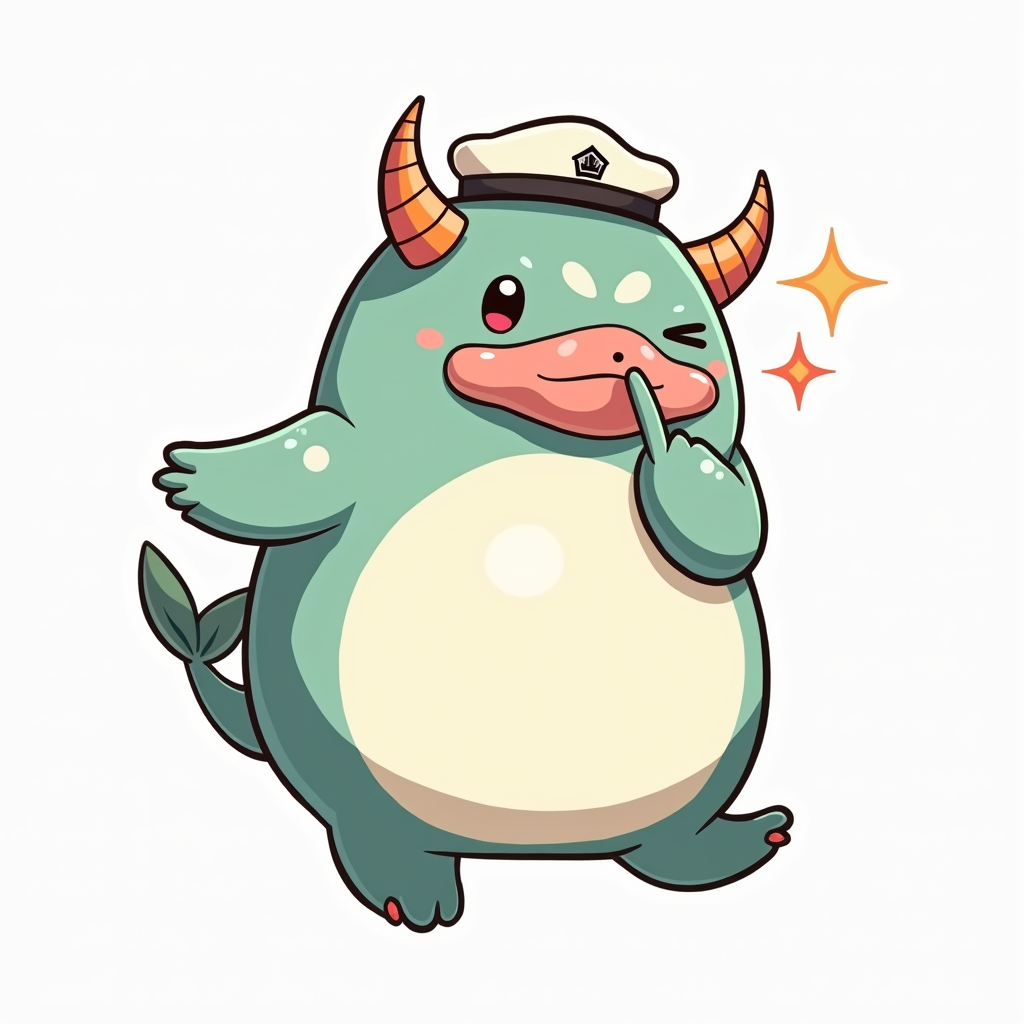
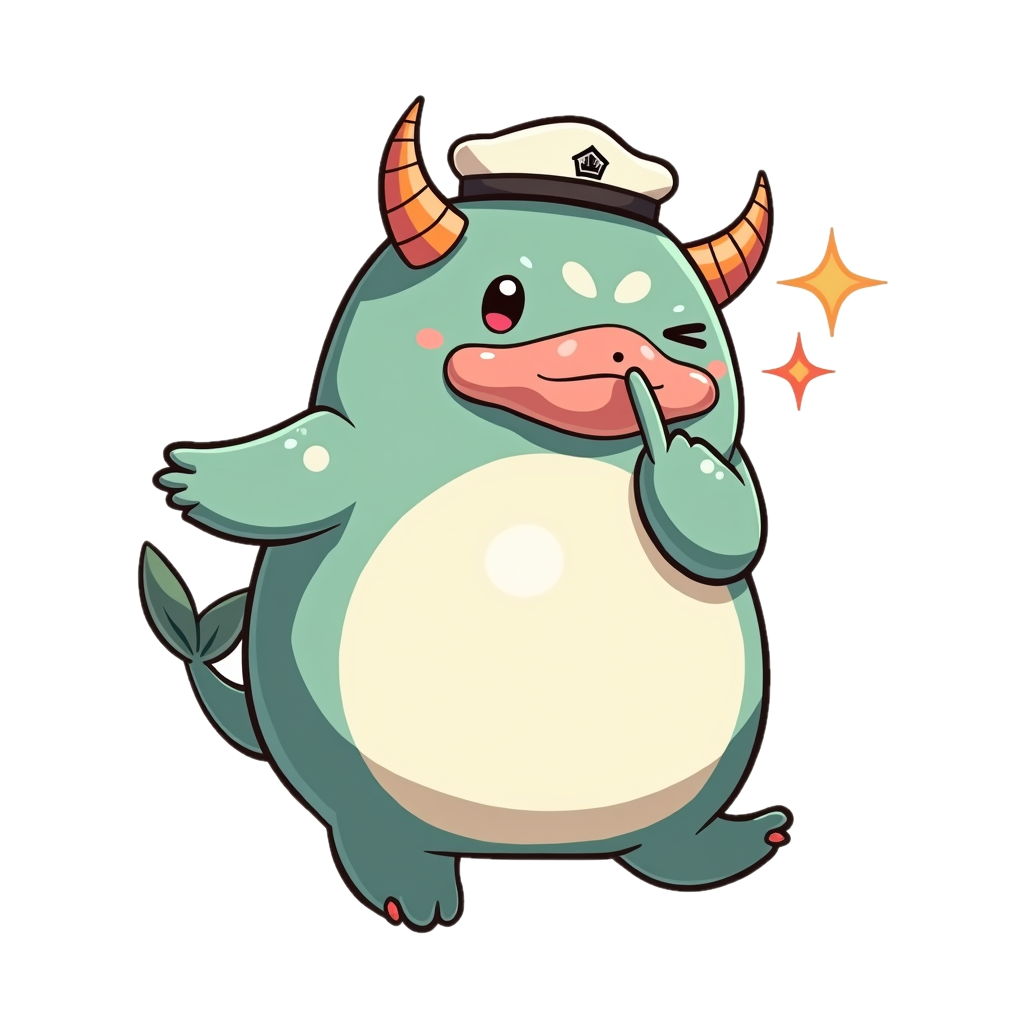
forge: transparent-background yokai portraits (#77)
## Summary

- All five bundled yokai portraits are re-exported as RGBA with the
white canvas **and** the baked-in drop-shadow ellipse removed, so they
composite cleanly onto any UI surface.
- New `tools/yokai-forge/scripts/remove_portrait_background.py` makes
the transform reproducible for future forge runs.

## How it works

Two seeded flood fills over the RGB image:

1. **Canvas pass** — flood fill from the four corners across `min(R,G,B)
>= 240`. Removes the rendered white canvas; interior whites (cream
bellies on `short_a` / `r` / `sh` / `th`, the white cat body on `f`)
stay opaque because they're walled off by line art.
2. **Shadow pass** — expand the background mask through neutral-grey
pixels (`135 <= min(R,G,B) <= 248` and `max − min <= 22`). The upper
bound overlaps the white threshold so the gradient rim where the shadow
fades into the canvas is bridged. The saturation constraint keeps
warm-cream bellies and the character's own shading out of the mask.

A 1px Gaussian feather smooths the final alpha to avoid aliased halos.

## Before / after

Preview composited onto solid blue so transparency is visible:

| slug | before (opaque white + shadow) | after (RGBA) |
|---|---|---|
| `f` | white box + grey halo under cat | clean cat silhouette |
| `r` | grey ellipse under feet | clean silhouette |
| `th` | grey ellipse under feet | clean silhouette |
| `sh` | faint ellipse under feet | clean silhouette |
| `short_a` | white box (no shadow) | clean silhouette |
[…]

diff --git a/tools/yokai-forge/scripts/remove_portrait_background.py b/tools/yokai-forge/scripts/remove_portrait_background.py
@@ -1,0 +1,143 @@
+#!/usr/bin/env python3
+"""Convert bundled yokai portrait PNGs from opaque-white backgrounds to transparent.
+
+The rendered portraits ship as 1024x1024 8-bit RGB PNGs with a pure-white
+canvas. A naive "white -> alpha 0" swap would also erase internal white
+regions (bellies, cat faces, highlights), so this script flood-fills from
+the four corners across near-white pixels only, leaving interior whites
+opaque. The alpha edge is feathered by one pixel to avoid aliased halos
+when the portrait is composited onto colored backgrounds in MoraUI.
+
+Usage:
+    python scripts/remove_portrait_background.py \
+        ../../Packages/MoraCore/Sources/MoraCore/Resources/Yokai
+
+By default the script rewrites each `*/portrait.png` in-place as RGBA.
+Pass `--output-root <dir>` to write transparent copies to a mirrored tree
+(useful for eyeballing the alpha mask before committing the overwrite).
+"""
+from __future__ import annotations
+
+import argparse
+import sys
+from collections import deque
+from pathlib import Path
+
+import numpy as np
+from PIL import Image, ImageFilter
+
+WHITE_THRESHOLD = 240  # pixels where min(R,G,B) >= this are treated as background
+SHADOW_MIN = 135  # lower bound of neutral-grey shadow pixels (min RGB channel)
+SHADOW_MAX = 248  # overlaps WHITE_THRESHOLD so the soft gradient rim is bridged
+SHADOW_SAT_SPREAD = 22  # max(R,G,B) - min(R,G,B); small => near-neutral grey
+FEATHER_RADIUS = 1  # pixels; smooth the alpha mask to avoid jaggies
+
+
+def _flood_fill(eligible: np.ndarray, seed_mask: np.ndarray) -> np.ndarray:
+    """4-connected flood fill restricted to `eligible`, seeded from `seed_mask`."""
+    h, w = eligible.shape
+    visited = seed_mask & eligible
+    queue: deque[tuple[int, int]] = deque(
+        (int(y), int(x)) for y, x in zip(*np.where(visited))
+    )
+    while queue:
+        y, x = queue.popleft()
+        for dy, dx in ((-1, 0), (1, 0), (0, -1), (0, 1)):
+            ny, nx = y + dy, x + dx
+            if 0 <= ny < h and 0 <= nx < w and not visited[ny, nx] and eligible[ny, nx]:
+                visited[ny, nx] = True
+                queue.append((ny, nx))
+    return visited
+
+
+def _build_background_mask(rgb: np.ndarray) -> np.ndarray:
+    """Return a boolean mask (H, W) where True = background.
+
+    A single 4-connected flood fill from the four corners across a
+    combined eligibility set:
+
+    - Near-white pixels (`min(R,G,B) >= WHITE_THRESHOLD`): the rendered
+      canvas.
+    - Neutral-grey pixels (`SHADOW_MIN <= min(R,G,B) <= SHADOW_MAX` and
+      `max - min <= SHADOW_SAT_SPREAD`): the soft drop-shadow ellipse
+      baked under some characters. The grey band overlaps the white
+      threshold so the gradient rim where the shadow fades into the
+      canvas is bridged.
+
+    Unioning the two sets into one fill matters: a white pocket walled
+    off by a shadow ring (e.g. between the rabbit's legs) can only be
+    reached by first traversing the shadow and then resuming through
+    white. Running the passes separately would leave such pockets
+    opaque.
+
+    Interior whites on the character (bellies on short_a / r / sh / th,
+    the white cat body on f) stay opaque because they are walled off by
+    saturated line-art that fails both eligibility predicates.
+    """
+    h, w, _ = rgb.shape
+    rgb_min = rgb.min(axis=2)
+    rgb_max = rgb.max(axis=2)
+    spread = rgb_max.astype(np.int16) - rgb_min.astype(np.int16)
+
+    near_white = rgb_min >= WHITE_THRESHOLD
+    shadow_like = (
+        (rgb_min >= SHADOW_MIN) & (rgb_min <= SHADOW_MAX) & (spread <= SHADOW_SAT_SPREAD)
+    )
+    eligible = near_white | shadow_like
+
+    corner_seeds = np.zeros((h, w), dtype=bool)
+    corner_seeds[0, 0] = corner_seeds[0, -1] = True
+    corner_seeds[-1, 0] = corner_seeds[-1, -1] = True
+    return _flood_fill(eligible, corner_seeds)
+
+
+def _process(portrait_path: Path, output_path: Path) -> None:
+    with Image.open(portrait_path) as img:
+        rgb = np.asarray(img.convert("RGB"))
+    background = _build_background_mask(rgb)
+    alpha = np.where(background, 0, 255).astype(np.uint8)
+    alpha_img = Image.fromarray(alpha, mode="L")
+    if FEATHER_RADIUS > 0:
+        alpha_img = alpha_img.filter(ImageFilter.GaussianBlur(radius=FEATHER_RADIUS))
+    rgba = Image.fromarray(rgb, mode="RGB").convert("RGBA")
+    rgba.putalpha(alpha_img)
+    output_path.parent.mkdir(parents=True, exist_ok=True)
+    rgba.save(output_path, format="PNG", optimize=True)
+
+
+def main(argv: list[str]) -> int:
+    parser = argparse.ArgumentParser(description=__doc__)
+    parser.add_argument(
+        "yokai_root",
+        type=Path,
+        help="Directory containing <slug> subdirectories, each with a portrait.png.",
+    )
+    parser.add_argument(
+        "--output-root",
+        type=Path,
+        default=None,
+        help=(
+            "Optional output directory. When set, transparent portraits are "
+            "written to <output-root>/<slug>/portrait.png instead of "
+            "overwriting the input files."
+        ),
+    )
+    args = parser.parse_args(argv)
+
+    portraits = sorted(args.yokai_root.glob("*/portrait.png"))
+    if not portraits:
+        print(f"no portraits found under {args.yokai_root}", file=sys.stderr)
+        return 1
+
+    for src in portraits:
+        if args.output_root is None:
+            dst = src
+        else:
+            dst = args.output_root / src.parent.name / src.name
+        _process(src, dst)
+        print(f"transparent: {dst}")
+    return 0
+
+
+if __name__ == "__main__":
+    raise SystemExit(main(sys.argv[1:]))
